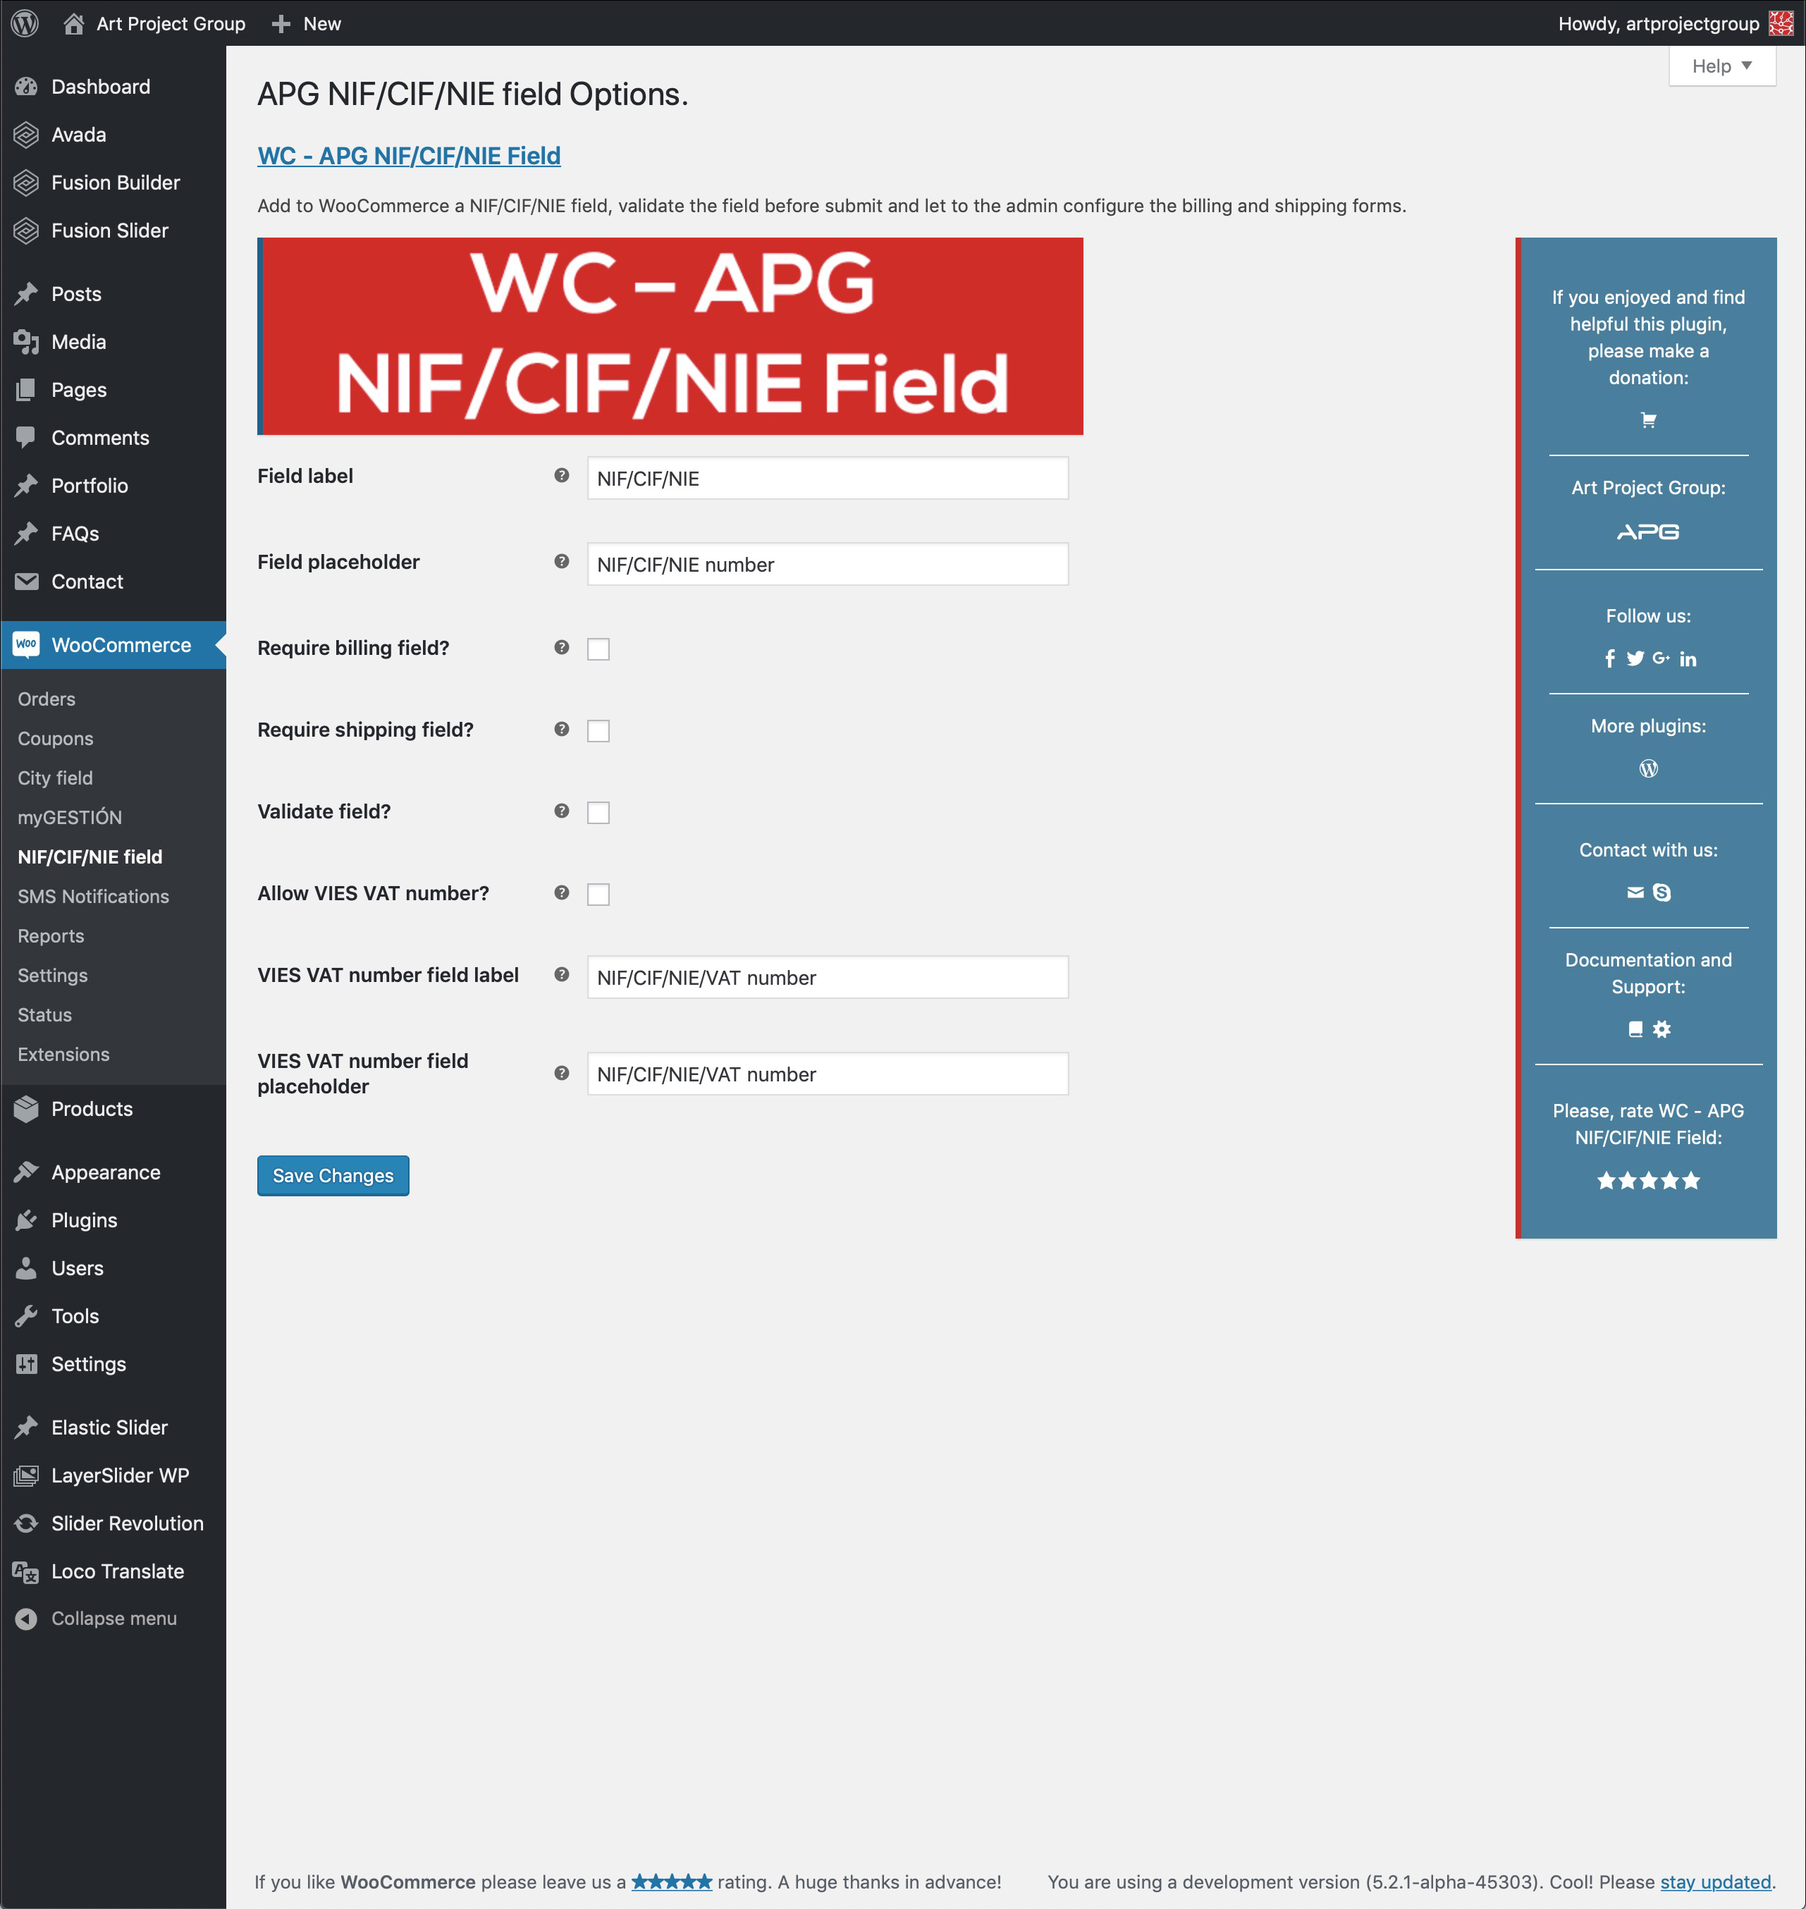
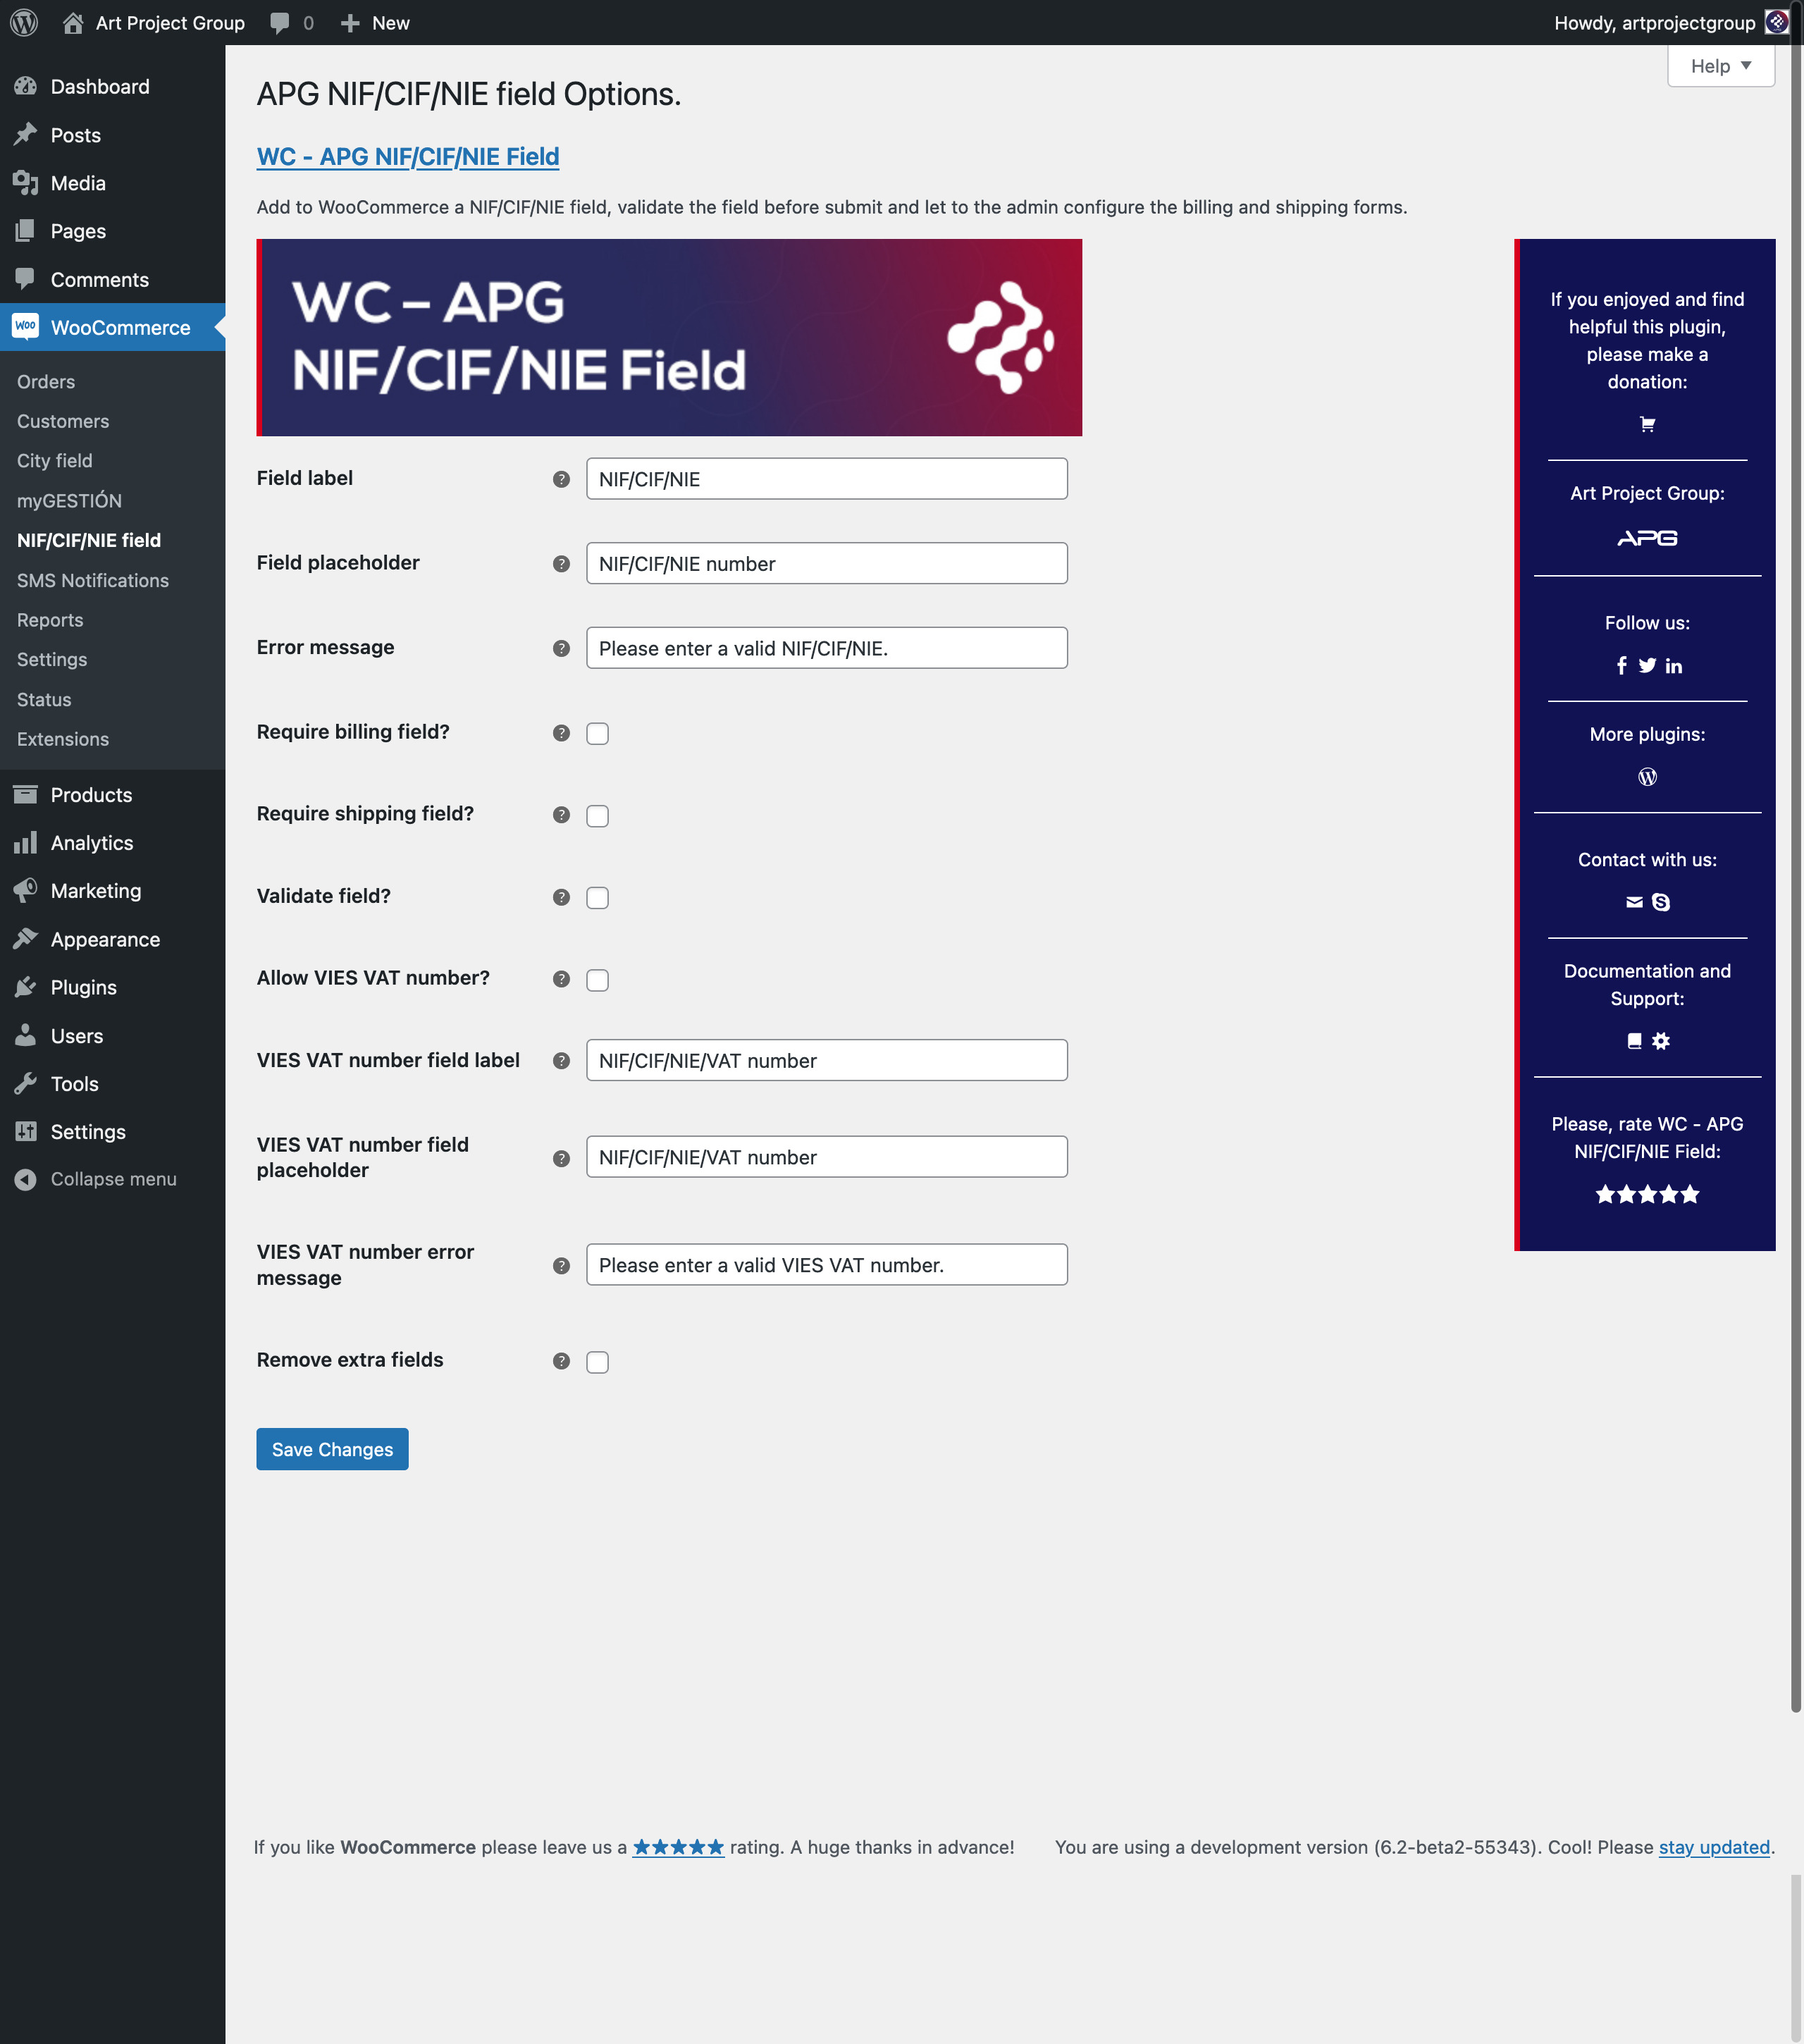
Versión 1.7.4.1

diff --git a/assets/css/style.css b/assets/css/style.css
@@ -7,8 +7,7 @@ table.apg-table, .cabecera {
 	max-width: 586px;
 }
 .imagen {
-	border-left: 4px solid #07628c;
-	box-shadow: 0 1px 1px 0 rgba(0, 0, 0, 0.1);
+	border-left: 4px solid #d9001d;
 	max-width: 100%;
 	display: block;
 }
@@ -34,14 +33,13 @@ div.informacion .estrellas .star-rating .star {
 	font-size: 15px;
 }
 div.informacion {
-    background-color: rgba(7,98,140,0.8);
+	background-color: #101254;
     float: right;
     padding: 10px;
     width: 15%;
     max-width: 220px;
     text-align: center;
     border-left: 4px solid #d9001d;
-    box-shadow: 0 1px 1px 0 rgba(0, 0, 0, 0.1);
     color: #fff;
 }
 div.informacion div.fila {

diff --git a/includes/admin/funciones-apg.php b/includes/admin/funciones-apg.php
@@ -7,7 +7,7 @@ $apg_nif = [
 	'plugin' 		=> 'WC - APG NIF/CIF/NIE Field', 
 	'plugin_uri' 	=> 'wc-apg-nifcifnie-field', 
 	'donacion' 		=> 'https://artprojectgroup.es/tienda/donacion',
-	'soporte' 		=> 'https://artprojectgroup.es/tienda/ticket-de-soporte',
+	'soporte' 		=> 'https://artprojectgroup.es/tienda/soporte-tecnico',
 	'plugin_url' 	=> 'https://artprojectgroup.es/plugins-para-woocommerce/wc-apg-nifcifnie-field', 
 	'ajustes' 		=> 'admin.php?page=wc-apg-nifcifnie-field', 
 	'puntuacion' 	=> 'https://www.wordpress.org/support/view/plugin-reviews/wc-apg-nifcifnie-field'

diff --git a/apg-nif.php b/apg-nif.php
@@ -1,15 +1,15 @@
 <?php
 /*
 Plugin Name: WC - APG NIF/CIF/NIE Field
-Version: 1.7.4
+Version: 1.7.4.1
 Plugin URI: https://wordpress.org/plugins/wc-apg-nifcifnie-field/
 Description: Add to WooCommerce a NIF/CIF/NIE field.
 Author URI: https://artprojectgroup.es/
 Author: Art Project Group
 Requires at least: 3.8
-Tested up to: 6.1
+Tested up to: 6.2
 WC requires at least: 2.4
-WC tested up to: 7.1
+WC tested up to: 7.4
 
 Text Domain: wc-apg-nifcifnie-field
 Domain Path: /languages

diff --git a/readme.md b/readme.md
@@ -7,13 +7,13 @@ Tags: woocommerce, commerce, e-commerce, commerce, shop, virtual shop, nif, cif,
 
 Requires at least: 3.8
 
-Tested up to: 6.1
+Tested up to: 6.2
 
-Stable tag: 1.7.4
+Stable tag: 1.7.4.1
 
 WC requires at least: 2.4
 
-WC tested up to: 7.1
+WC tested up to: 7.4
 
 License: GPLv3
 
@@ -83,6 +83,11 @@ Si necesitas ayuda para configurar o instalar **WC - APG NIF/CIF/NIE Field**, **
 *En ningún caso **Art Project Group** proporciona ningún tipo de soporte técnico gratuito.*
 
 ## Changelog
+### 1.7.4.1
+* Actualización de cabecera.
+* Actualización de hoja de estilo.
+* Actualización de captura de pantalla.
+
 ### 1.7.4
 * Valida el formulario de envío sólo si se ha activado.
 * Valida el número VIES sólo para los países soportados.
